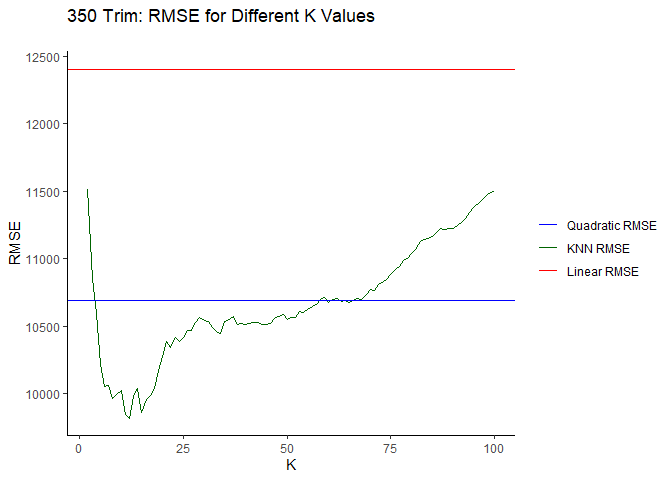
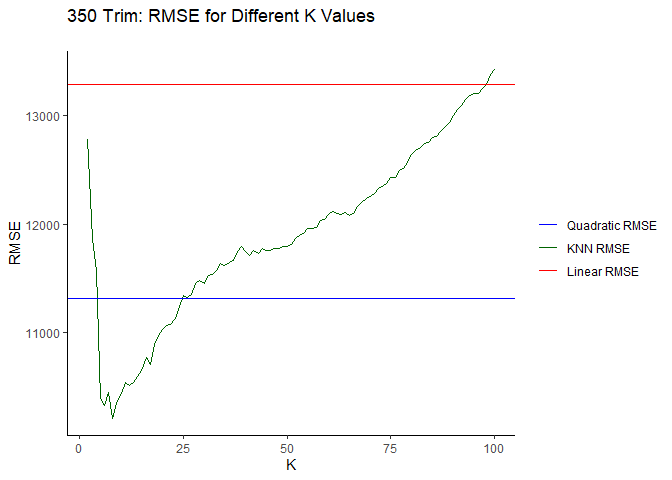
update

diff --git a/Harrison/HW1_P4.md b/Harrison/HW1_P4.md
@@ -7,7 +7,7 @@ there is a line for the RMSE of a linear benchmark, as well as a
 quadratic benchmark.
 
 ![](HW1_P4_files/figure-markdown_strict/unnamed-chunk-2-1.png)![](HW1_P4_files/figure-markdown_strict/unnamed-chunk-2-2.png)![](HW1_P4_files/figure-markdown_strict/unnamed-chunk-2-3.png)![](HW1_P4_files/figure-markdown_strict/unnamed-chunk-2-4.png)
+
 From the 350 Trim chart of RMSE versus K, we see that the RMSE bottoms
-out at `{r optk_350}`, as such the line of fit against the test data is
-for that K value. Similarly we have a minimal RMSE and line of fit for
-k=`{r optk_AMG}`.
+out at 8, as such the line of fit against the test data is for that K
+value. Similarly we have a minimal RMSE and line of fit for k=5.
